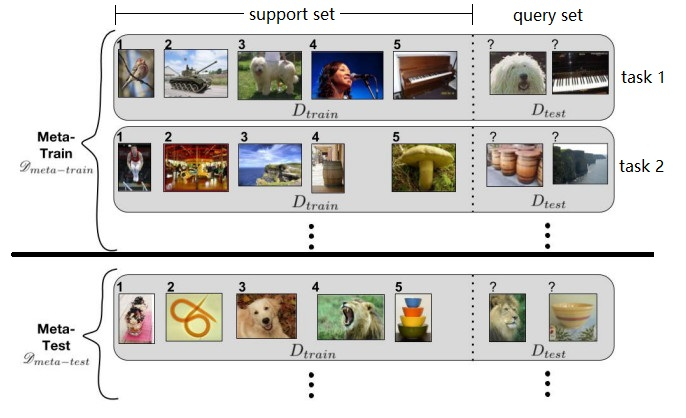
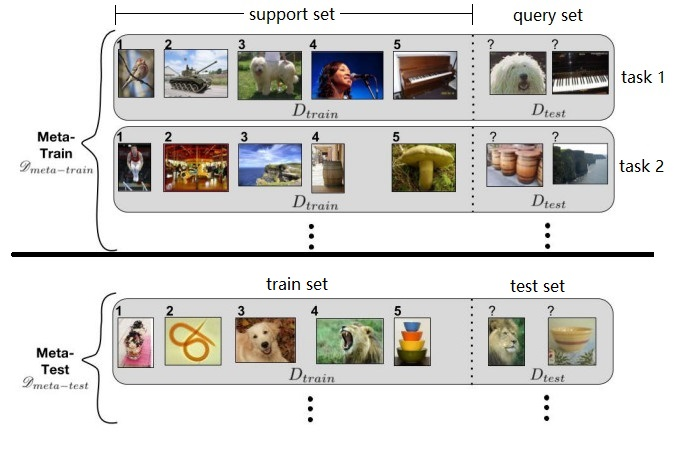
minor update

diff --git a/_posts/2020-07-12-FSL.md b/_posts/2020-07-12-FSL.md
@@ -80,11 +80,13 @@ Meta-Learning
   - support set 和 query set 构成一个 meta-task；
 - 每次采样一个 meta-task 进行训练，称为一个 episode；
 - 如此反复可以选出若干个meta-task，构成一个batch；
-- 一次meta-train可以训练多干个batch（比如10000个）；
+- 一次meta-train可以训练多干个batch（比如10000个）。
 
 meta-test 阶段：
 
-- 在测试集中随机抽取 N 个类别，每个类别 K 个样本；
+- 在测试集中随机抽取 N 个类别，每个类别 K 个样本，作为 train set，剩余样本作为 test set；
+- 用 support set 来 fine-tune 模型；
+- 用 test set 来测试模型。
 
 ![](..\assets\img\postsimg\20200713\2.1.jpg)
 
